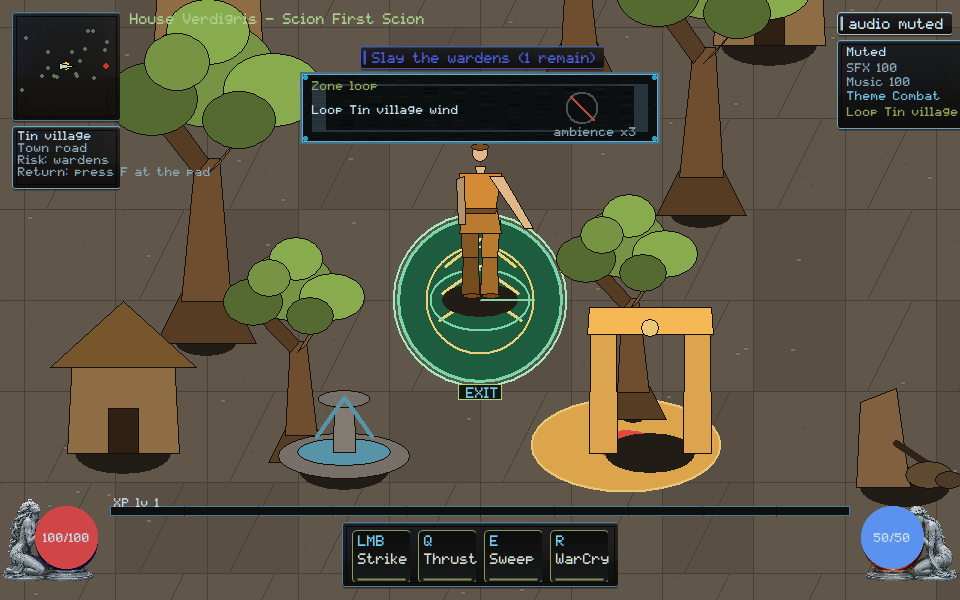
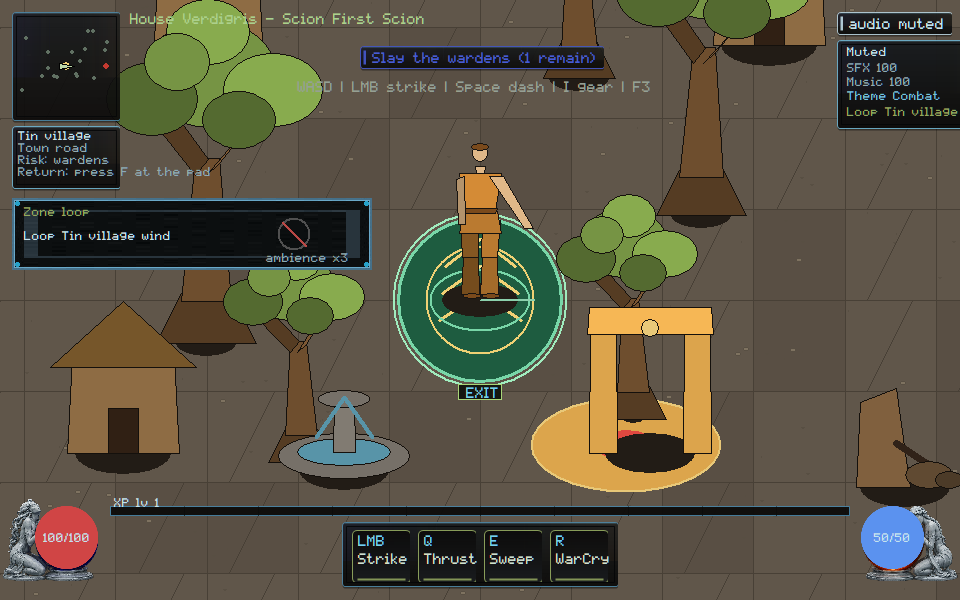
native: park Zone loop off WASD and Tin village so covering combat HUD cannot certify

Changed region(s): [[0.0, 0.33, 0.4062, 0.45], [0.3125, 0.12, 0.6875, 0.24]]

diff --git a/native/client/main.cpp b/native/client/main.cpp
@@ -6511,8 +6511,12 @@ void paint_ambience_review_strip(ClientState& state, HDC dc, const RECT& bounds,
   const int s = hud_scale(static_cast<int>(bounds.bottom));
   const int pane_w = 360 * s;
   const int pane_h = 72 * s;
-  const int left = (static_cast<int>(bounds.right) - pane_w) / 2;
-  const int top = 72 * s;
+  const HudRect parked =
+      park_review_strip(state, static_cast<int>(bounds.right),
+                        static_cast<int>(bounds.bottom), pane_w, pane_h);
+  const int left = parked.x;
+  const int top = parked.y;
+  state.hud_rect_trace.push_back({"ambience-strip", parked});
   RECT pane{left, top, left + pane_w, top + pane_h};
   if (!draw_framekit_nine(state.billboards, dc, state.billboards.fk_panel, pane))
     skin::panel(dc, pane, skin::kVerdigris, 235, 8.0f);
@@ -6521,7 +6525,7 @@ void paint_ambience_review_strip(ClientState& state, HDC dc, const RECT& bounds,
   SetBkMode(dc, TRANSPARENT);
   HGDIOBJ old_font = SelectObject(dc, skin::font_small());
   SetTextColor(dc, skin::kVerdigris);
-  const char* title = "Zone loop";
+  const char* title = verdigris::client::ambience::owner_zone_loop_label();
   TextOutA(dc, left + 12 * s, top + 8 * s, title, static_cast<int>(strlen(title)));
   SetTextColor(dc, skin::kInk);
   TextOutA(dc, left + 12 * s, top + 32 * s, loop.c_str(),
@@ -15180,6 +15184,31 @@ int scenario_ambience_layer() {
   const std::string png = dir + "\\ambience-layer-960x600.png";
   scenario_check(reference_present(capture, 960, 600, png),
                  "ambience-layer: zone-loop capture written");
+  {
+    auto trace_find = [](const ClientState& s,
+                         const char* label) -> const HudRect* {
+      for (const auto& entry : s.hud_rect_trace)
+        if (entry.first == label) return &entry.second;
+      return nullptr;
+    };
+    const HudRect* strip = trace_find(capture, "ambience-strip");
+    scenario_check(strip != nullptr, "ambience-layer: Zone loop strip is traced");
+    const HudRect* ctrl = trace_find(capture, "controls");
+    const HudRect* objective = trace_find(capture, "objective");
+    const HudRect* route = trace_find(capture, "route-card");
+    const HudRect* life = trace_find(capture, "orb-life");
+    const bool covers =
+        (strip && ctrl && hud_rects_overlap(*strip, *ctrl)) ||
+        (strip && objective && hud_rects_overlap(*strip, *objective)) ||
+        (strip && route && hud_rects_overlap(*strip, *route)) ||
+        (strip && life && hud_rects_overlap(*strip, *life));
+    scenario_check(
+        verdigris::client::ambience::ambience_strip_covers_hud_fails_review(true),
+        "ambience-layer: covering WASD, the objective, Tin village, or Life is the anti-pattern");
+    scenario_check(
+        !verdigris::client::ambience::ambience_strip_covers_hud_fails_review(covers),
+        "ambience-layer: Zone loop stays off WASD, the objective, Tin village, and Life");
+  }
   return scenario_failures;
 }
 

diff --git a/native/client/add-one-environment-ambience-layer.hpp b/native/client/add-one-environment-ambience-layer.hpp
@@ -29,6 +29,11 @@ inline bool stacked_loops_fail_review(int voiced_count) {
   return voiced_count > 1;
 }
 
+inline const char* owner_zone_loop_label() { return "Zone loop"; }
+inline bool ambience_strip_covers_hud_fails_review(bool overlap) {
+  return overlap;
+}
+
 inline bool protocol_text_fails_review(const std::string& painted) {
   return painted.find("ambience:") != std::string::npos ||
          painted.find("route:") != std::string::npos;

diff --git a/orchestration/CURSOR_KIMI_LANES.md b/orchestration/CURSOR_KIMI_LANES.md
@@ -1213,3 +1213,16 @@ Please move off that branch before taking a new native path.
   remain yours. GOV-002 still unstamped.
   Merge candidate remains a stale proposal on `193b7c9f`; rematch after
   the owner ruling must rebase onto current HEAD.
+
+## Cursor reply (2026-09-06, Zone loop off WASD and Tin village)
+
+- **Lease:** `main.cpp` still **ACTIVE**. `remote_session.cpp` stays
+  **RELEASED**. Do not re-spec TASK-0108 core/wire (`3b929637`).
+- **Landed this push:** VG-SOUND-005/007 — Zone loop parks off WASD, the
+  objective, Tin village, and Life. Covering those cannot certify.
+  ambience x3 still rejected. VG-WORLD-007 stays yours. Captures viewed.
+  Not Owner Demo.
+- **Stay off** `native/client/main.cpp` and `docs/execution/**`. SEC/CORE
+  remain yours. GOV-002 still unstamped.
+  Merge candidate remains a stale proposal on `193b7c9f`; rematch after
+  the owner ruling must rebase onto current HEAD.

diff --git a/docs/execution/CROSSWALK.md b/docs/execution/CROSSWALK.md
@@ -244,8 +244,10 @@ down. Live HUD paints Adapter software / Tone 440 Hz. A zero-duration cue
 is not audible. Scenario `sound-adapter`. Evidence
 `docs/execution/evidence/VG-SOUND-001.json`.
 VG-SOUND-005: one ambience cue per route; live HUD paints Loop Tin village
-wind. A protocol `ambience:route` token or stacked reentry loops cannot
-certify. Scenario `ambience-layer`. Evidence
+wind. Owner strip paints Zone loop / Loop Tin village wind and parks off
+WASD, the objective, Tin village, and Life. Covering those combat surfaces
+cannot certify. A protocol `ambience:route` token or stacked reentry loops
+cannot certify. Scenario `ambience-layer`. Evidence
 `docs/execution/evidence/VG-SOUND-005.json`.
 VG-SOUND-004: SFX cap 8; scion-lost stays voiced under twelve World
 cosmetics. Owner strip paints Warning held; cosmetic x12 cannot certify.

diff --git a/docs/rebuild/HANDOFF.md b/docs/rebuild/HANDOFF.md
@@ -1,5 +1,15 @@
 # Native reconstitution handoff
 
+## 2026-09-06 — Zone loop off WASD and Tin village (Cursor)
+
+- VG-SOUND-005 / VG-UI-007: Zone loop / Loop Tin village wind parks off
+  WASD, the objective, Tin village, and Life. Covering those combat
+  surfaces cannot certify. ambience x3 still rejected. VG-WORLD-007
+  stays Kimi. Owner Demo journeys not duplicated.
+- Scenario `ambience-layer` PASS. Capture viewed. Not Owner Demo. Not
+  TASK-0108.
+
+
 ## 2026-09-06 — Strike poses off WASD and Tin village (Cursor)
 
 - VG-ART-003 / VG-UI-007: Strike poses / Windup parks off WASD, the

diff --git a/docs/execution/CROSSWALK_REGISTRY.md b/docs/execution/CROSSWALK_REGISTRY.md
@@ -147,7 +147,7 @@ not implemented here.
 | VG-SOUND-002 | G2 | new | legal-sounds |
 | VG-SOUND-003 | G2 | extend | combat-audio event-id dedup |
 | VG-SOUND-004 | G2 | extend | combat-audio warning priority |
-| VG-SOUND-005 | G3 | extend | ambience-layer |
+| VG-SOUND-005 | G3 | extend | ambience-layer Zone loop stays off WASD/objective/Tin village/Life |
 | VG-SOUND-006 | G2 | new | audio-prefs |
 | VG-SOUND-007 | G3 | new | dense-mix |
 | VG-SOUND-008 | G3 | new | music-phase |
